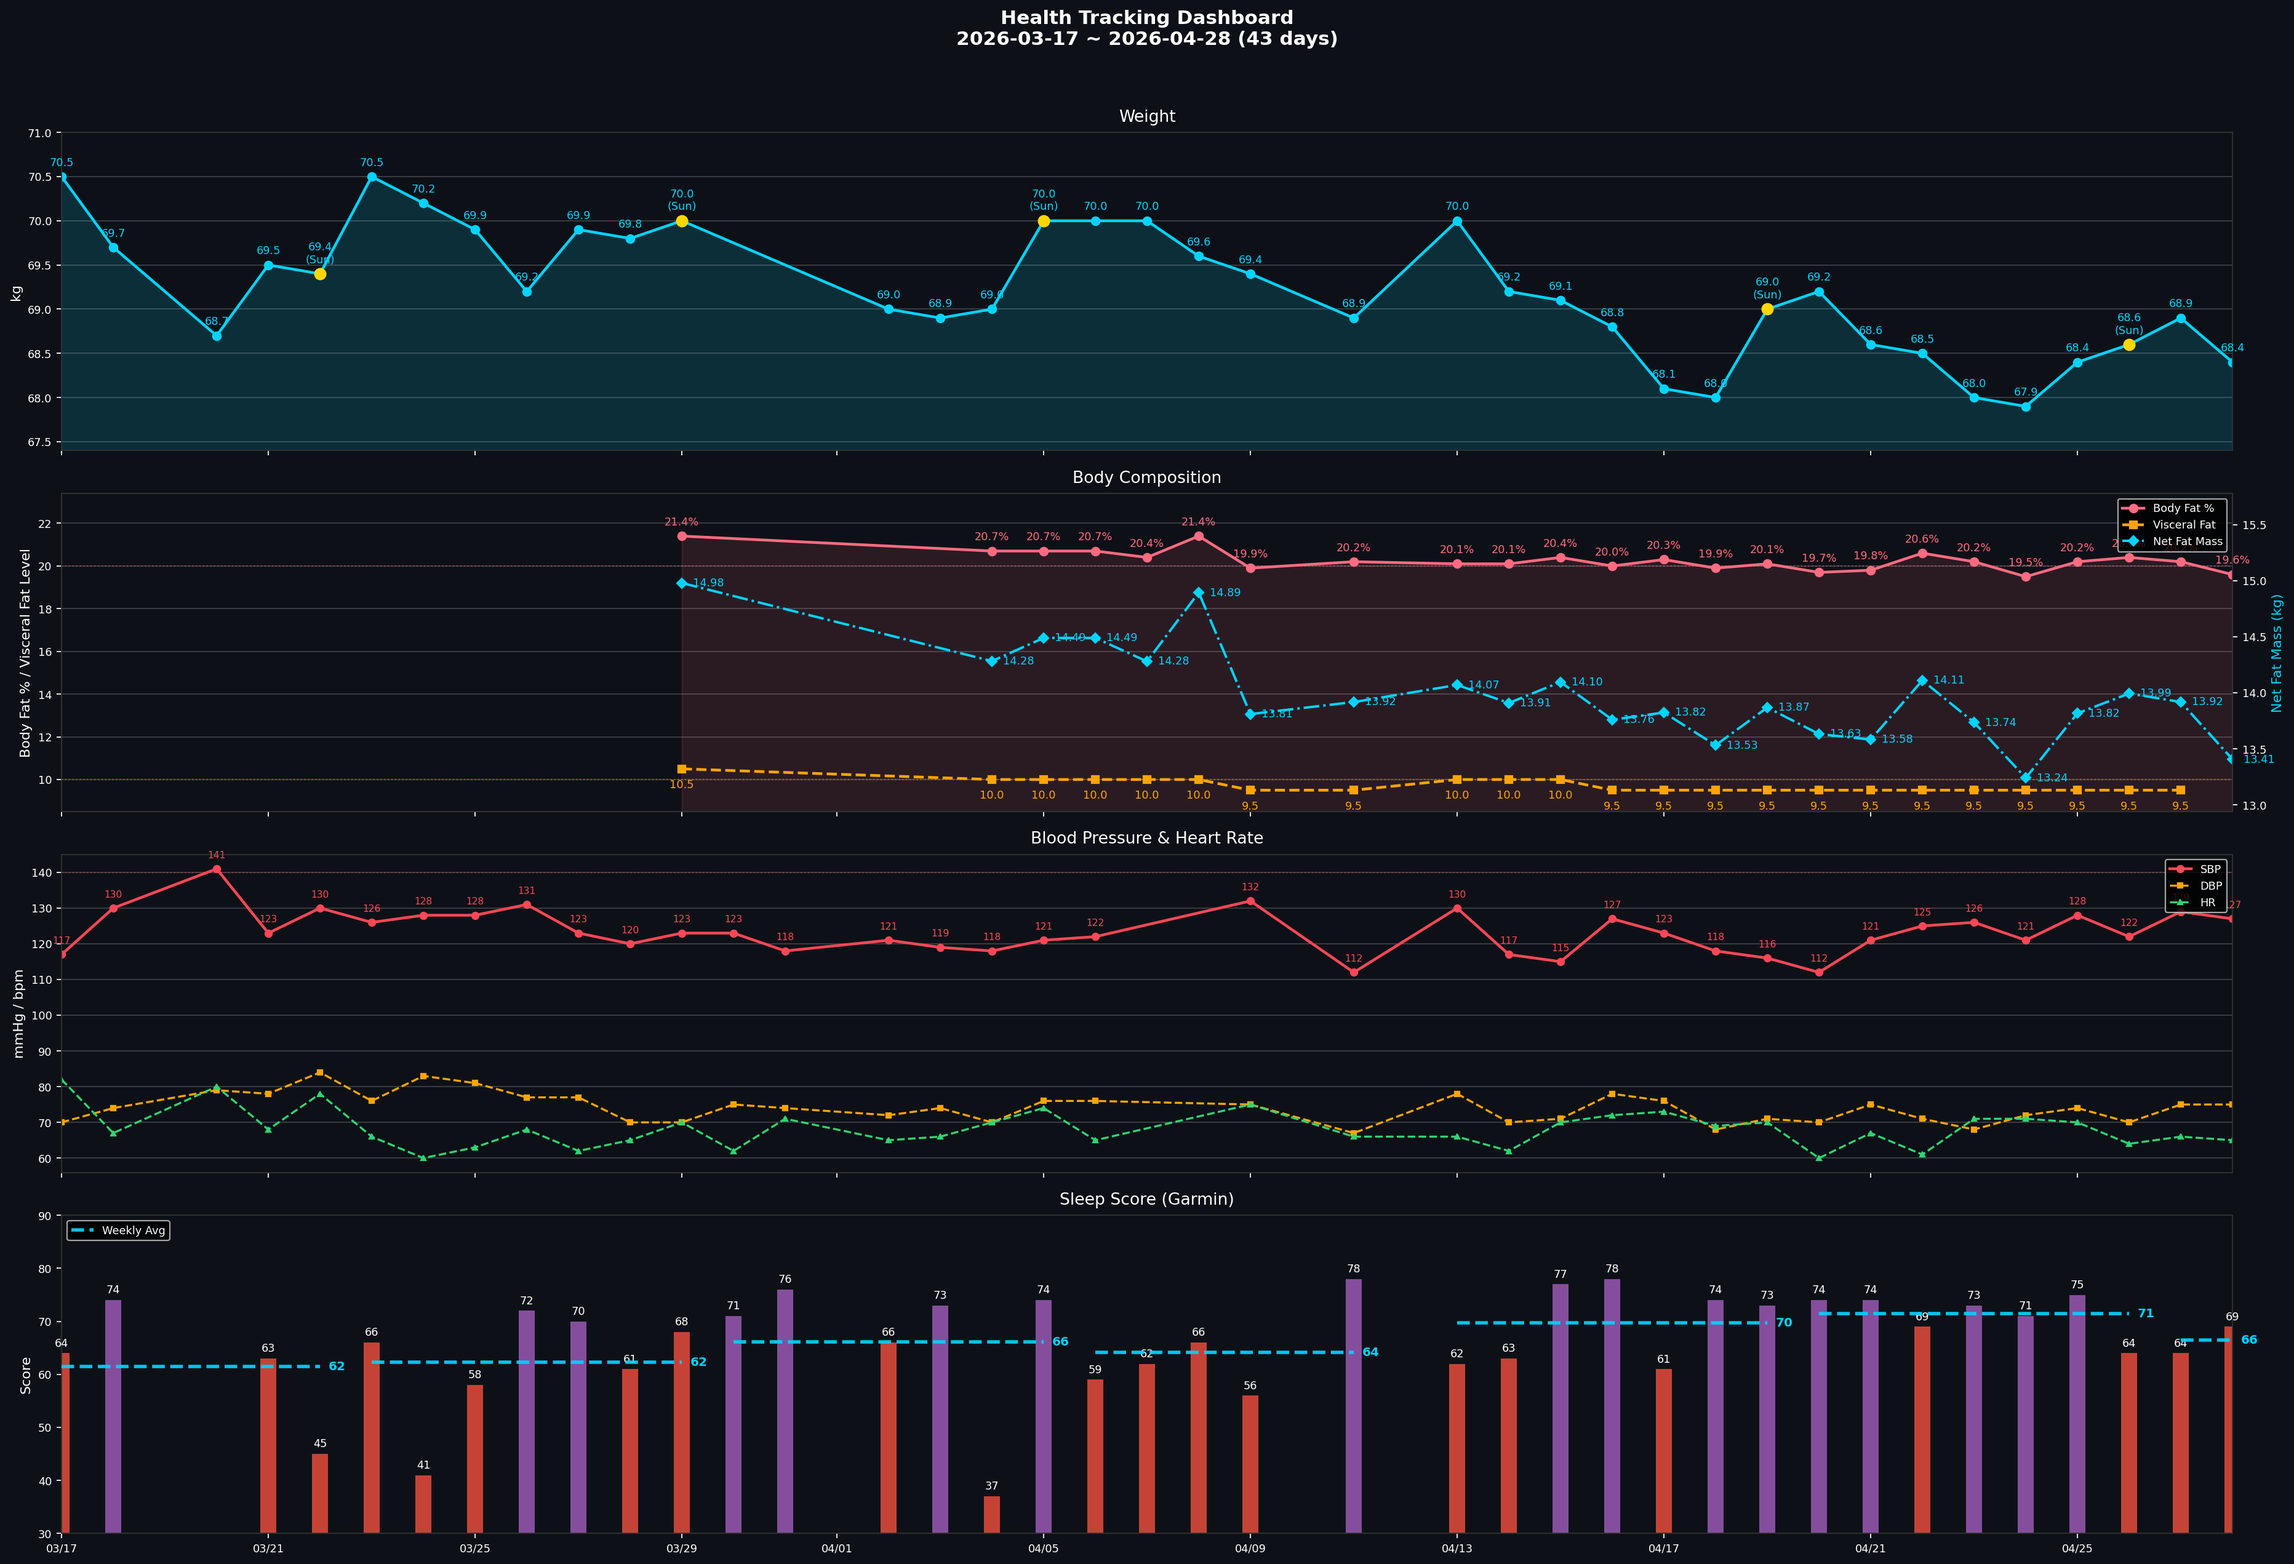
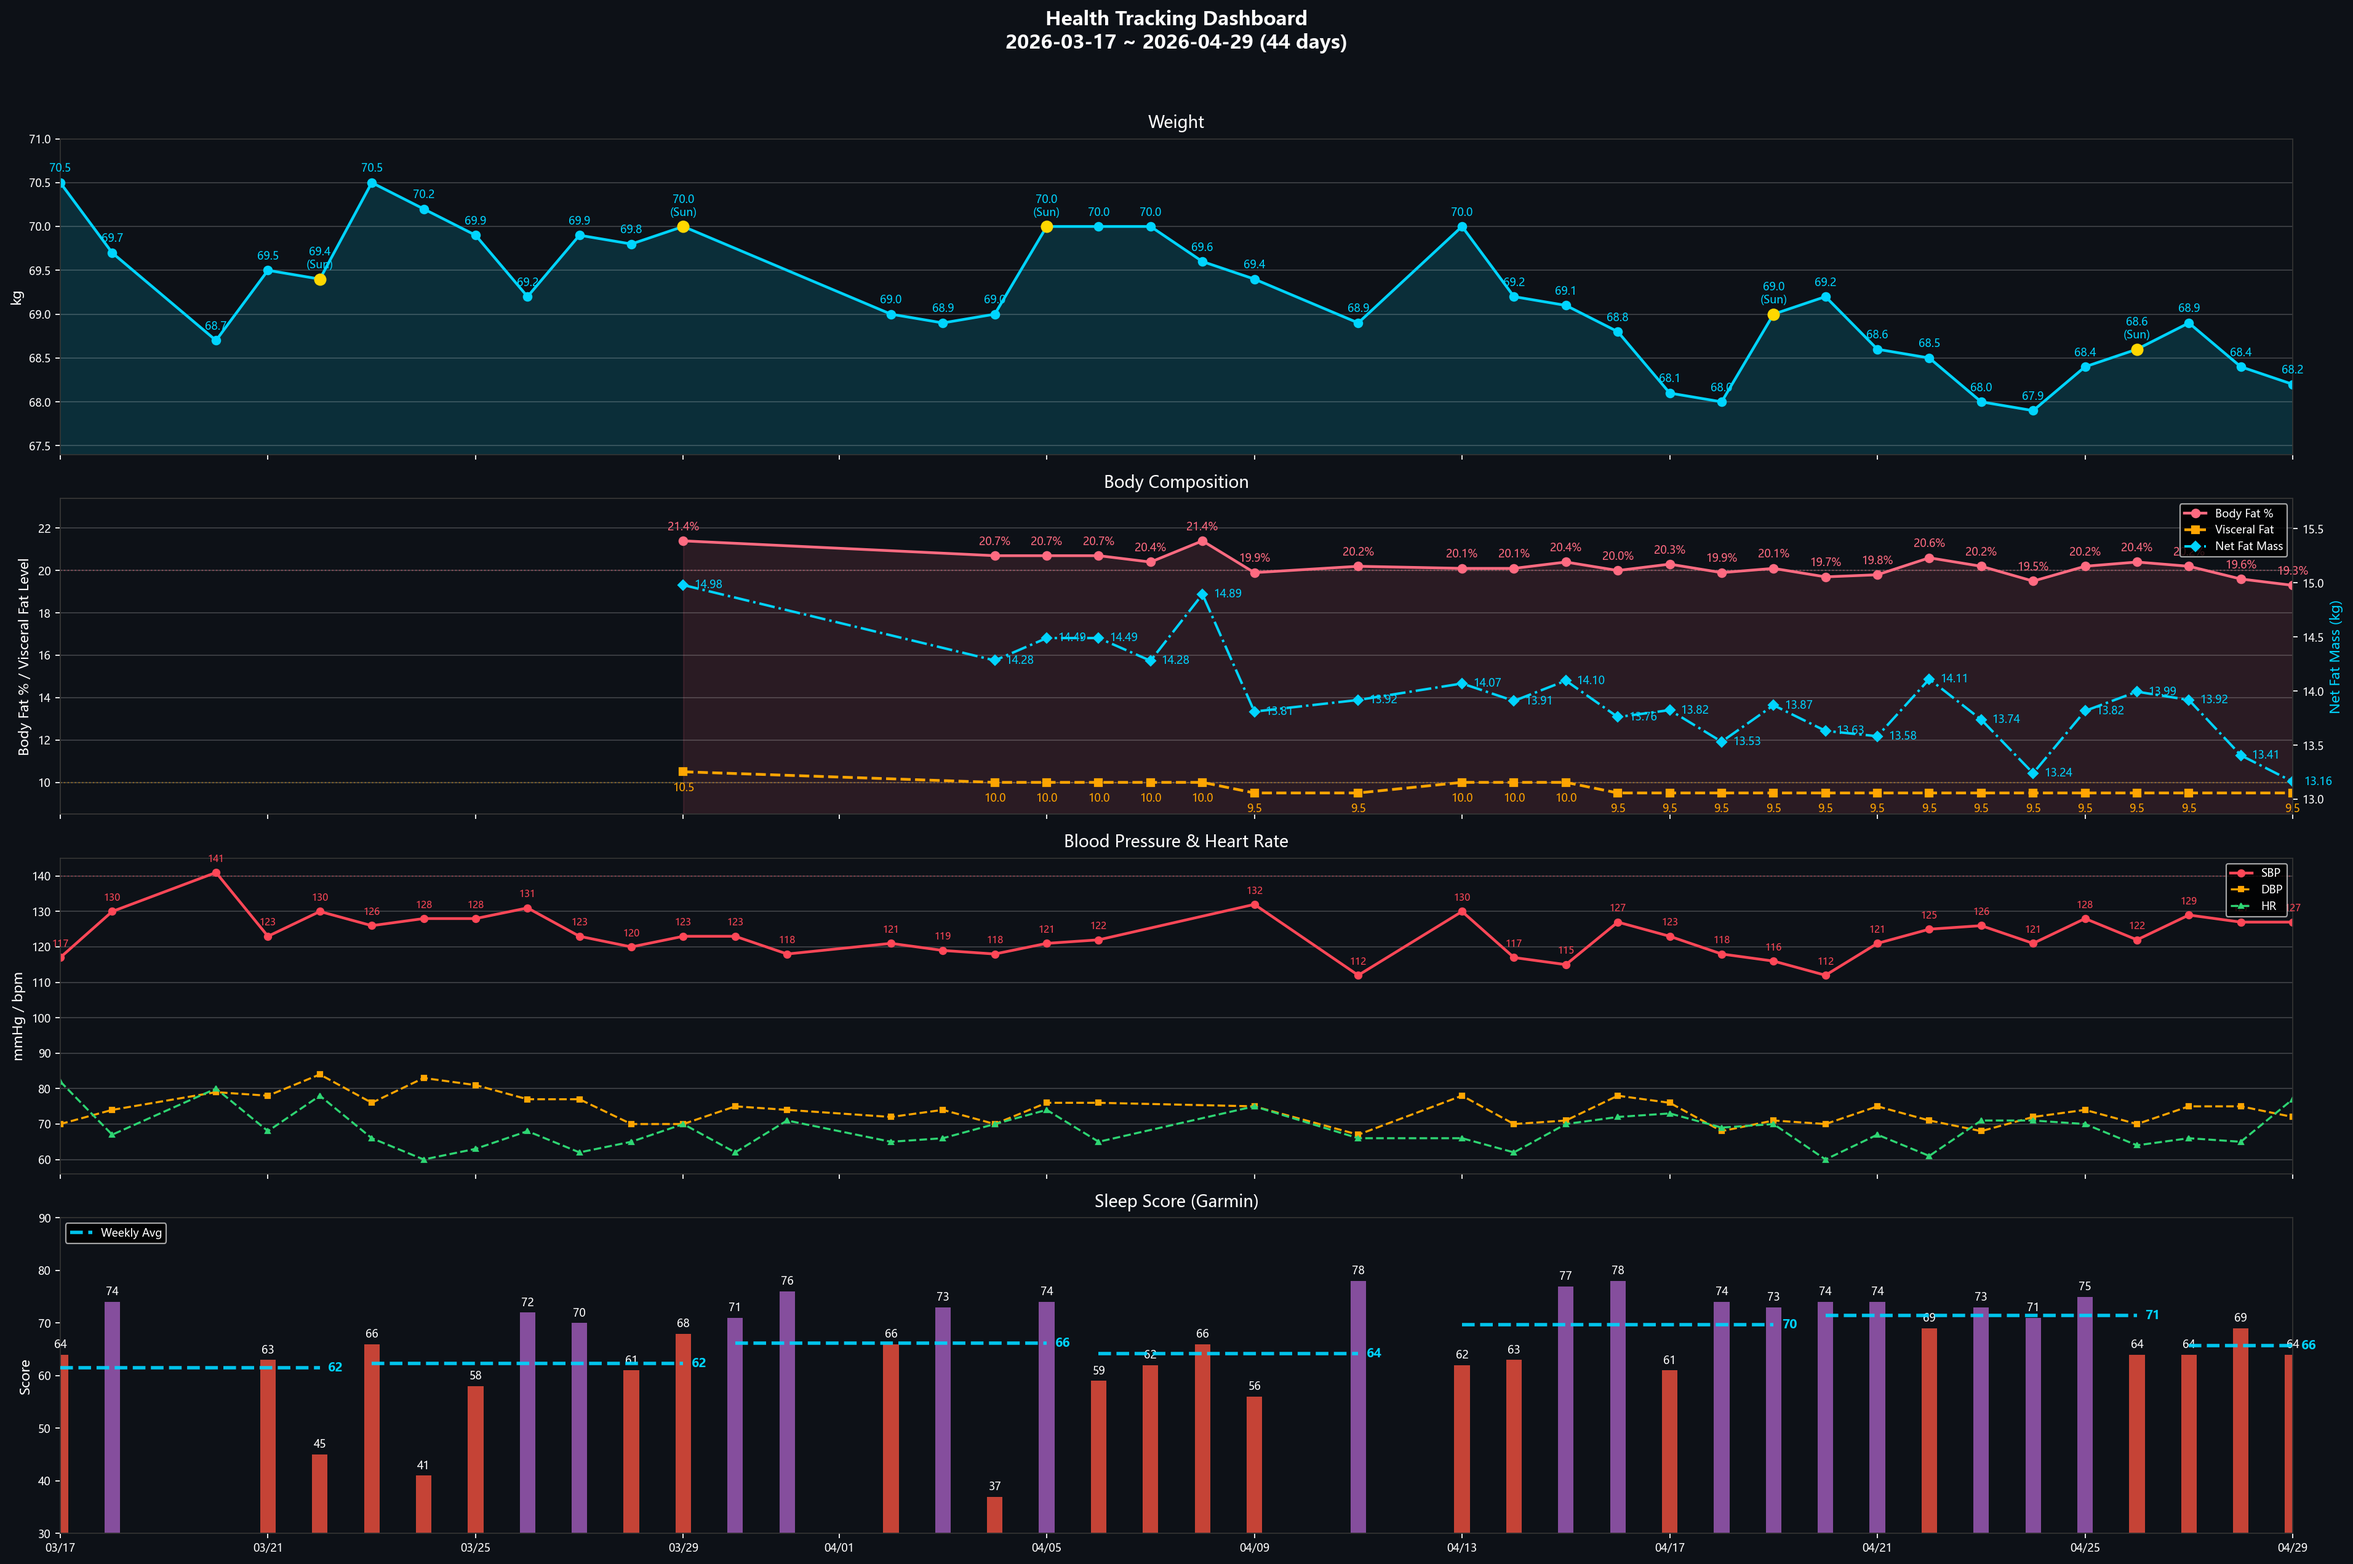
daily 2026-04-29: SpO2 79% 連 3 晚 < 88% (PSG 強烈紅旗)
- 體重 68.2 kg | 體脂 19.3% | 內臟脂肪 9.5
- BP 127/72/77 (第二次) - 正常
- Sleep Score 64 / Body Battery 58 / 主觀 3
- 中途醒 3 次 / 總時長 6h 51m
- SpO2 最低 79% — OSA 紅旗連 3 晚 (82→81→79)
- 昨日飲水 2.4L / 步數 11,458
- 今日計畫：散步 + 伸展（恢復為主）

diff --git a/reviews/daily/2026-04-29.md b/reviews/daily/2026-04-29.md
@@ -1,0 +1,76 @@
+# 晨間健康紀錄 — 2026-04-29
+
+*3 分鐘。起床後立即完成。記錄，不分析。*
+
+---
+
+## 體重
+
+**今日：68.2 kg**
+**體脂率：19.3 %**
+**內臟脂肪等級：9.5**
+
+*每週六早晨為正式紀錄（排尿後、進食前；連 5 個工作日後、週末大餐前的真實低點）。其他日可選填。*
+
+---
+
+## 血壓（晨間）
+
+*起床後 1 小時內，上完廁所、進食前。坐下安靜 5 分鐘，連量兩次取第二次。*
+
+| 次數 | 收縮壓 | 舒張壓 | 心率 |
+|------|--------|--------|------|
+| 第一次 | — | — | — |
+| 第二次 | 127 | 72 | 77 |
+
+---
+
+## 睡眠狀態
+
+**實際就寢：** 21:38
+**實際起床：** 06:00
+**中途醒來：** 3 次（原因：N/A）
+**Garmin Sleep Score：** 64 / 100
+**Garmin Body Battery 起床值：** 58
+**主觀恢復感：** 3 / 5（1=極度疲憊, 5=精力充沛）
+
+*Sleep Score < 65 或 Body Battery < 50 連續三天 → 重新檢視睡眠修復方案。*
+
+**Garmin 補充：**
+- 總時長 6h 51m（深眠 114 分 / REM 66 分）
+- SpO2 最低 **79%** ⚠ OSA 紅旗（< 88%）；昨日 81%、前日 82%，**連 3 晚 < 88%**
+- RHR 61 bpm｜日均壓力 23
+
+---
+
+## 昨日回顧
+
+**實際飲水量：** 2.4 L（接近目標 2.5L；Garmin 已紀錄）
+**步數：** 11,458（充足）
+
+---
+
+## 身體信號
+
+*任何張力、疼痛、疲勞、異常 — 或「清」。記位置、性質、強度。*
+
+| 部位 | 性質 | 強度 (0-10) |
+|------|------|-------------|
+| — | 清 | 0 |
+
+---
+
+## 今日計畫速記
+
+- [ ] 飲水目標：2.5 L（17:00 前完成 60-70%）
+- [ ] 補充品（標準時程）：早餐打包（魚油 ×1 + Vit D3K2 3000 IU + L-Citrulline 2g）｜午餐前 Psyllium 5g｜晚餐後 魚油 ×1 + EGCG｜睡前 鎂 400mg + 酸櫻桃 500mg
+- [ ] 運動：散步（walk）
+- [ ] 活動度/伸展：Stretch（前頸 / 胸椎 / 髂腰肌）
+
+---
+
+💡 **PT 建議：** **SpO2 連 3 晚 < 88%（82→81→79）為強烈 OSA 紅旗 — 強烈建議盡快安排 PSG 多項睡眠檢查**。Sleep Score 64 + Body Battery 58 + 主觀 3/5 → 今日避免高強度運動，散步 + 伸展為宜。RHR 61 仍在安全區（< 67），但較昨日 +4 bpm，注意觀察。BP 127/72 正常。
+
+---
+
+*Filed: reviews/daily/2026-04-29.md*

diff --git a/reviews/weekly/2026-W18.md b/reviews/weekly/2026-W18.md
@@ -31,9 +31,9 @@
 
 |  | 一 | 二 | 三 | 四 | 五 | 六 | 日 |
 |--|----|----|----|----|----|----|-----|
-| 體重 (kg) | 68.9 | 68.4 | | | | | |
-| 體脂率 (%) | 20.2 | 19.6 | | | | | |
-| 內臟脂肪 | 9.5 | 9.5 | | | | | |
+| 體重 (kg) | 68.9 | 68.4 | 68.2 | | | | |
+| 體脂率 (%) | 20.2 | 19.6 | 19.3 | | | | |
+| 內臟脂肪 | 9.5 | 9.5 | 9.5 | | | | |
 
 **本週正式讀數（週六早晨）：** 待 2026-05-02
 **上週正式讀數（週六早晨）：** 68.4 kg｜體脂率：20.2%｜內臟脂肪：9.5
@@ -47,7 +47,7 @@
 |------|--------|--------|------|
 | 2026-04-27 (一) | 129 | 75 | 66 |
 | 2026-04-28 (二) | 127 | 75 | 65 |
-| 2026-04-29 (三) | | | |
+| 2026-04-29 (三) | 127 | 72 | 77 |
 | 2026-04-30 (四) | | | |
 | 2026-05-01 (五) | | | |
 | 2026-05-02 (六) | | | |
@@ -65,7 +65,7 @@
 |------|------|------|--------|-------------|--------------|----------|
 | 2026-04-27 (一) | 21:39 | 05:21 | 1 次（小孩夜驚） | 64 | 57 | 2 |
 | 2026-04-28 (二) | 20:59 | 04:53 | 2 次（陪睡幼兒夜驚） | 69 | 57 | 2 |
-| 2026-04-29 (三) | | | | | | |
+| 2026-04-29 (三) | 21:38 | 06:00 | 3 次（N/A） | 64 | 58 | 3 |
 | 2026-04-30 (四) | | | | | | |
 | 2026-05-01 (五) | | | | | | |
 | 2026-05-02 (六) | | | | | | |
@@ -110,6 +110,7 @@
 |------|------------------------|
 | 2026-04-27 | 計畫：溫和伸展 10-15 分鐘（恢復日 — Sleep Score 64 + 主觀 2 + 大腿 DOMS） |
 | 2026-04-28 | 散步（walk）+ 伸展（stretch）— 恢復為主，主觀 2/5 |
+| 2026-04-29 | 計畫：散步（walk）+ 伸展（前頸 / 胸椎 / 髂腰肌）— 恢復為主 |
 
 ---
 
@@ -138,6 +139,7 @@
 |------|----------|------|
 | SpO2 連 2 晚 < 88%（86/84） | 延續 W17 PSG 預約進度，今晚追蹤第 3 晚 | 待觀察 |
 | SpO2 04-27/04-28 最低 82%/81% | OSA 紅旗持續，今晚為第 3 晚觀察點，若再 < 88% 啟動 PSG 預約 | 待觀察 |
+| **SpO2 04-29 最低 79%（連 3 晚 < 88%：82→81→79）** | **強烈 OSA 紅旗，立即啟動 PSG 多項睡眠檢查預約** | 待觀察 |
 | Sleep Score 連 2 天 64 | 今日運動降級伸展，今晚 22:30 前就寢 | 待觀察 |
 | 昨日飲水 1.5L | 今晨起床 500 mL，17:00 前 1.5L+ | 待觀察 |
 

diff --git a/reports/daily-garmin/2026-04-29.md b/reports/daily-garmin/2026-04-29.md
@@ -1,0 +1,27 @@
+# Garmin 每日摘要 — 2026-04-29
+
+## 睡眠
+- 就寢：21:38｜起床：06:00
+- 總時長：6h 51m
+- 深眠：114 分｜REM：66 分
+- Sleep Score：64
+- Body Battery 起床值：58
+
+## 靜息心率
+- RHR：61.0 bpm
+
+## 壓力
+- 日均：23
+
+## 步數
+- 總計：128
+
+## SpO2
+- 日均：94.0%
+- 最低：79%
+
+## 飲水
+- 實際：0.35 L
+- 目標：2.00 L
+
+_Source: data/garmin/2026-04-29.json (gitignored)_

diff --git a/reports/daily-garmin/2026-04-28.md b/reports/daily-garmin/2026-04-28.md
@@ -11,18 +11,18 @@
 - RHR：57.0 bpm
 
 ## 壓力
-- 日均：23
+- 日均：29
 
 ## 步數
-- 總計：5,725
+- 總計：11,458
 
 ## SpO2
-- 日均：98.0%
+- 日均：95.0%
 - 最低：81%
 
 ## 飲水
-- 實際：0.00 L
-- 目標：2.68 L
-- 運動流汗耗水：0.68 L
+- 實際：2.40 L
+- 目標：2.74 L
+- 運動流汗耗水：0.74 L
 
 _Source: data/garmin/2026-04-28.json (gitignored)_
